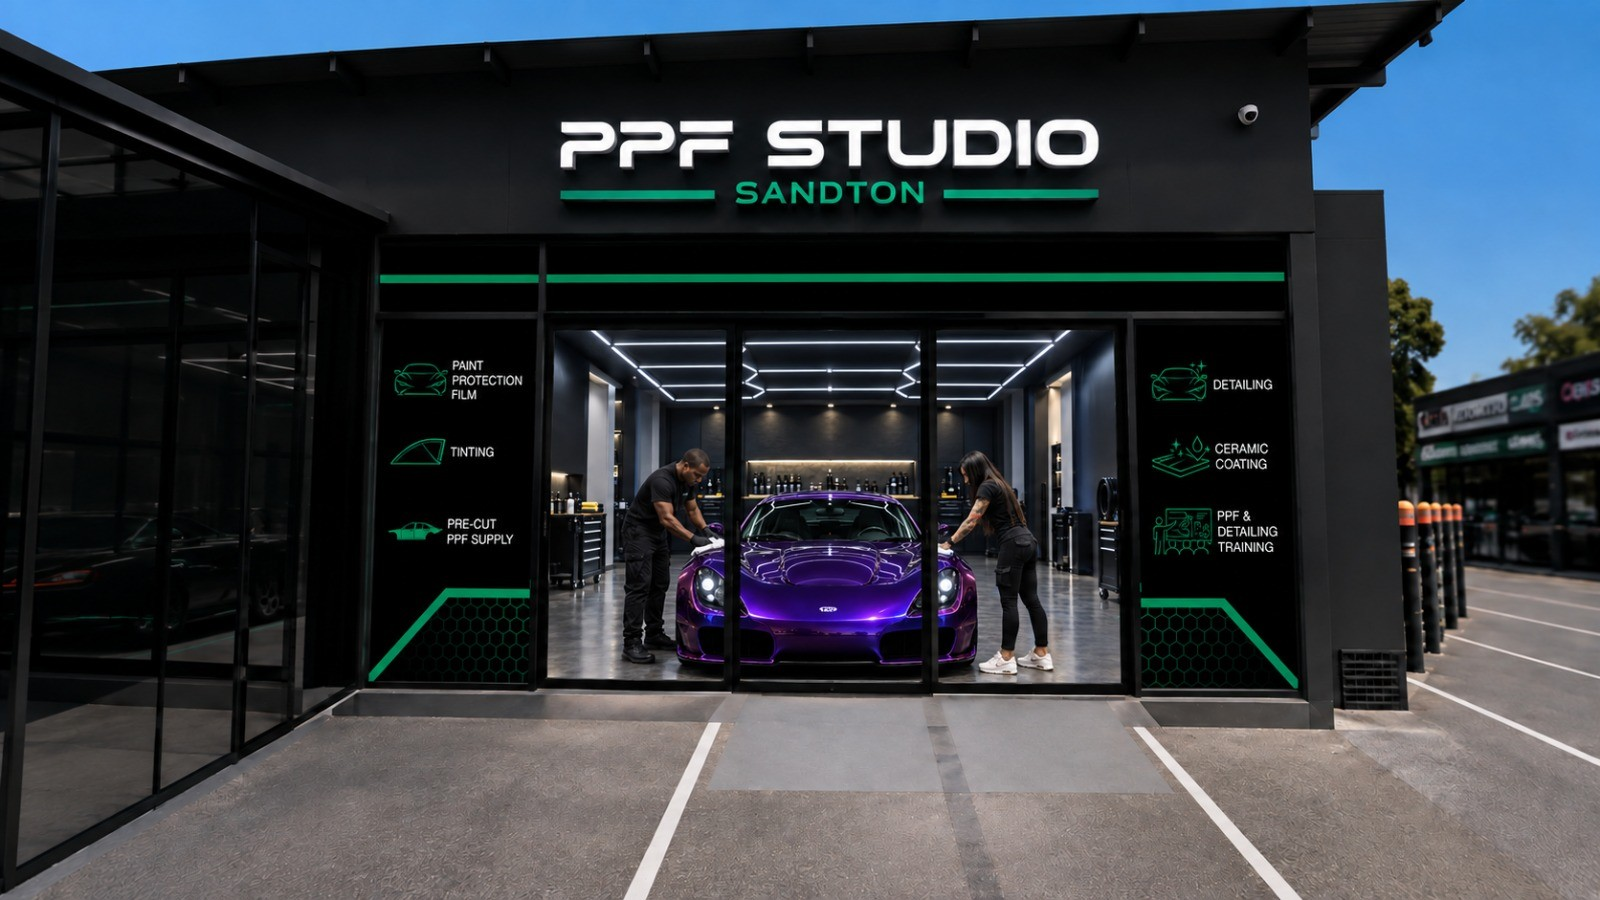
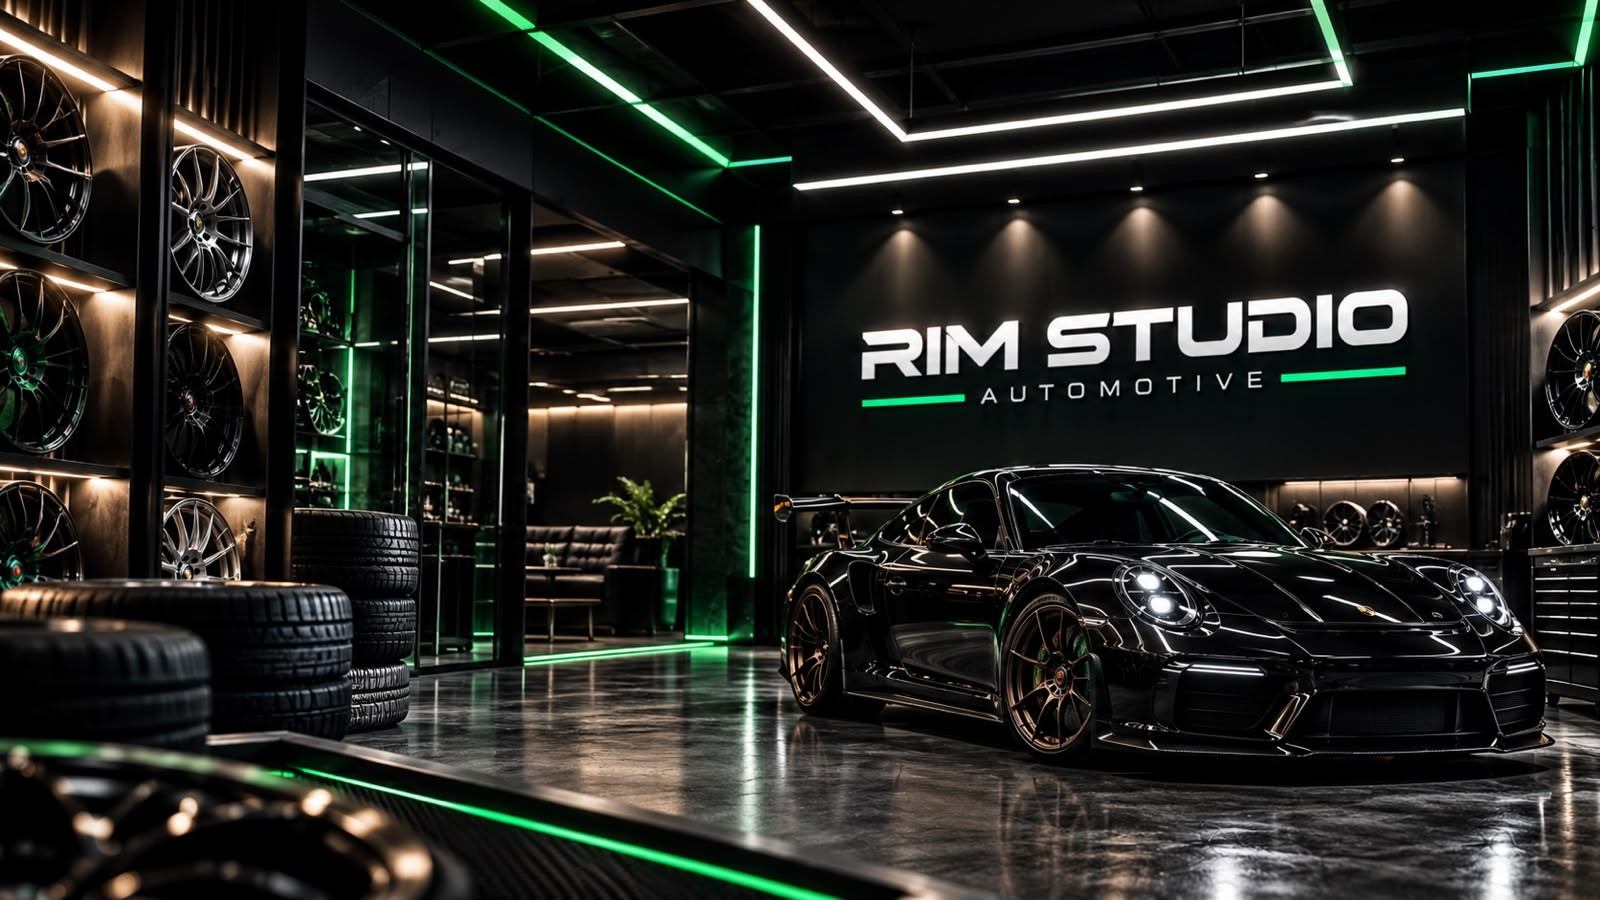
Add files via upload
commit

diff --git a/pages/mags.html b/pages/mags.html
@@ -5,13 +5,13 @@
   <meta name="viewport" content="width=device-width, initial-scale=1" />
   <title>Mag Wheels | Alloy Wheels Sandton | RIM STUDIO</title>
   <meta name="description" content="Browse premium alloy wheels and mag packages at RIM STUDIO Sandton. Land Rover, Mercedes, Audi, Porsche, bakkie and more. Correct fitment." />
-  <link rel="stylesheet" href="../css/style.css?v=neon15" />
+  <link rel="stylesheet" href="../css/style.css?v=neon16" />
   <link href="https://fonts.googleapis.com/css2?family=Inter:wght@400;500;600;700&display=swap" rel="stylesheet" />
 </head>
 <body>
   <header class="navbar">
     <div class="container navbar-inner">
-      <a href="../index.html" class="logo"><img src="../images/logo.png?v=neon15" alt="RIM STUDIO" height="36" /></a>
+      <a href="../index.html" class="logo"><img src="../images/logo.png?v=neon16" alt="RIM STUDIO" height="36" /></a>
       <nav class="nav-links">
         <a href="../index.html">HOME</a><a href="about.html">ABOUT US</a><a href="mags.html">MAGS</a><a href="tyres.html">TYRES</a><a href="detailing.html">DETAILING</a><a href="contact.html">CONTACT US</a>
       </nav>
@@ -46,7 +46,7 @@
   <footer class="footer">
     <div class="container">
       <div class="footer-grid">
-        <div><img src="../images/logo.png?v=neon15" alt="RIM STUDIO" class="footer-logo" /><p>Premium Wheels. Tyres. Detailing.</p></div>
+        <div><img src="../images/logo.png?v=neon16" alt="RIM STUDIO" class="footer-logo" /><p>Premium Wheels. Tyres. Detailing.</p></div>
         <div><h4>VISIT US</h4><address>4 7th Ave<br>Edenburg<br>Sandton, 2128<br>South Africa</address><p class="mt-4"><a href="mailto:info@rimstudio.co.za" style="color:var(--cyan)">info@rimstudio.co.za</a></p></div>
         <div><h4>EXPLORE</h4><ul><li><a href="mags.html">Mags</a></li><li><a href="tyres.html">Tyres</a></li><li><a href="detailing.html">Detailing</a></li><li><a href="about.html">About Us</a></li><li><a href="contact.html">Contact Us</a></li></ul></div>
         <div><h4>INFORMATION</h4><ul><li><a href="privacy.html">Privacy Policy</a></li><li><a href="terms.html">Terms & Conditions</a></li><li><a href="returns.html">Returns / Refund Policy</a></li></ul><a href="#" data-whatsapp class="btn btn-wa mt-6" style="display:inline-flex">WhatsApp Us</a></div>

diff --git a/pages/detailing.html b/pages/detailing.html
@@ -5,13 +5,13 @@
   <meta name="viewport" content="width=device-width, initial-scale=1" />
   <title>Automotive Detailing | RIM STUDIO Sandton</title>
   <meta name="description" content="Professional automotive detailing at RIM STUDIO Sandton. Premium vehicle care for a finish that deserves attention. Book your detail today." />
-  <link rel="stylesheet" href="../css/style.css?v=neon15" />
+  <link rel="stylesheet" href="../css/style.css?v=neon16" />
   <link href="https://fonts.googleapis.com/css2?family=Inter:wght@400;500;600;700&display=swap" rel="stylesheet" />
 </head>
 <body>
   <header class="navbar">
     <div class="container navbar-inner">
-      <a href="../index.html" class="logo"><img src="../images/logo.png?v=neon15" alt="RIM STUDIO" height="36" /></a>
+      <a href="../index.html" class="logo"><img src="../images/logo.png?v=neon16" alt="RIM STUDIO" height="36" /></a>
       <nav class="nav-links">
         <a href="../index.html">HOME</a><a href="about.html">ABOUT US</a><a href="mags.html">MAGS</a><a href="tyres.html">TYRES</a><a href="detailing.html">DETAILING</a><a href="contact.html">CONTACT US</a>
       </nav>
@@ -66,7 +66,7 @@
   <footer class="footer">
     <div class="container">
       <div class="footer-grid">
-        <div><img src="../images/logo.png?v=neon15" alt="RIM STUDIO" class="footer-logo" /><p>Premium Wheels. Tyres. Detailing.</p></div>
+        <div><img src="../images/logo.png?v=neon16" alt="RIM STUDIO" class="footer-logo" /><p>Premium Wheels. Tyres. Detailing.</p></div>
         <div><h4>VISIT US</h4><address>4 7th Ave<br>Edenburg<br>Sandton, 2128<br>South Africa</address><p class="mt-4"><a href="mailto:info@rimstudio.co.za" style="color:var(--cyan)">info@rimstudio.co.za</a></p></div>
         <div><h4>EXPLORE</h4><ul><li><a href="mags.html">Mags</a></li><li><a href="tyres.html">Tyres</a></li><li><a href="detailing.html">Detailing</a></li><li><a href="about.html">About Us</a></li><li><a href="contact.html">Contact Us</a></li></ul></div>
         <div><h4>INFORMATION</h4><ul><li><a href="privacy.html">Privacy Policy</a></li><li><a href="terms.html">Terms & Conditions</a></li><li><a href="returns.html">Returns / Refund Policy</a></li></ul><a href="#" data-whatsapp class="btn btn-wa mt-6" style="display:inline-flex">WhatsApp Us</a></div>

diff --git a/pages/contact.html b/pages/contact.html
@@ -5,13 +5,13 @@
   <meta name="viewport" content="width=device-width, initial-scale=1" />
   <title>Contact Us | RIM STUDIO Sandton</title>
   <meta name="description" content="Contact RIM STUDIO – 4 7th Ave, Edenburg, Sandton, 2128. Premium mag wheels, tyres and detailing. Email info@rimstudio.co.za or WhatsApp us." />
-  <link rel="stylesheet" href="../css/style.css?v=neon15" />
+  <link rel="stylesheet" href="../css/style.css?v=neon16" />
   <link href="https://fonts.googleapis.com/css2?family=Inter:wght@400;500;600;700&display=swap" rel="stylesheet" />
 </head>
 <body>
   <header class="navbar">
     <div class="container navbar-inner">
-      <a href="../index.html" class="logo"><img src="../images/logo.png?v=neon15" alt="RIM STUDIO" height="36" /></a>
+      <a href="../index.html" class="logo"><img src="../images/logo.png?v=neon16" alt="RIM STUDIO" height="36" /></a>
       <nav class="nav-links">
         <a href="../index.html">HOME</a><a href="about.html">ABOUT US</a><a href="mags.html">MAGS</a><a href="tyres.html">TYRES</a><a href="detailing.html">DETAILING</a><a href="contact.html">CONTACT US</a>
       </nav>
@@ -91,7 +91,7 @@
   <footer class="footer">
     <div class="container">
       <div class="footer-grid">
-        <div><img src="../images/logo.png?v=neon15" alt="RIM STUDIO" class="footer-logo" /><p>Premium Wheels. Tyres. Detailing.</p></div>
+        <div><img src="../images/logo.png?v=neon16" alt="RIM STUDIO" class="footer-logo" /><p>Premium Wheels. Tyres. Detailing.</p></div>
         <div><h4>VISIT US</h4><address>4 7th Ave<br>Edenburg<br>Sandton, 2128<br>South Africa</address><p class="mt-4"><a href="mailto:info@rimstudio.co.za" style="color:var(--cyan)">info@rimstudio.co.za</a></p></div>
         <div><h4>EXPLORE</h4><ul><li><a href="mags.html">Mags</a></li><li><a href="tyres.html">Tyres</a></li><li><a href="detailing.html">Detailing</a></li><li><a href="about.html">About Us</a></li><li><a href="contact.html">Contact Us</a></li></ul></div>
         <div><h4>INFORMATION</h4><ul><li><a href="privacy.html">Privacy Policy</a></li><li><a href="terms.html">Terms & Conditions</a></li><li><a href="returns.html">Returns / Refund Policy</a></li></ul><a href="#" data-whatsapp class="btn btn-wa mt-6" style="display:inline-flex">WhatsApp Us</a></div>

diff --git a/pages/tyres.html b/pages/tyres.html
@@ -5,13 +5,13 @@
   <meta name="viewport" content="width=device-width, initial-scale=1" />
   <title>Tyres | Performance & Safety Tyres Sandton | RIM STUDIO</title>
   <meta name="description" content="Quality tyres and wheel & tyre packages at RIM STUDIO Sandton. Performance, safety and value for Johannesburg drivers." />
-  <link rel="stylesheet" href="../css/style.css?v=neon15" />
+  <link rel="stylesheet" href="../css/style.css?v=neon16" />
   <link href="https://fonts.googleapis.com/css2?family=Inter:wght@400;500;600;700&display=swap" rel="stylesheet" />
 </head>
 <body>
   <header class="navbar">
     <div class="container navbar-inner">
-      <a href="../index.html" class="logo"><img src="../images/logo.png?v=neon15" alt="RIM STUDIO" height="36" /></a>
+      <a href="../index.html" class="logo"><img src="../images/logo.png?v=neon16" alt="RIM STUDIO" height="36" /></a>
       <nav class="nav-links">
         <a href="../index.html">HOME</a><a href="about.html">ABOUT US</a><a href="mags.html">MAGS</a><a href="tyres.html">TYRES</a><a href="detailing.html">DETAILING</a><a href="contact.html">CONTACT US</a>
       </nav>
@@ -40,7 +40,7 @@
   <footer class="footer">
     <div class="container">
       <div class="footer-grid">
-        <div><img src="../images/logo.png?v=neon15" alt="RIM STUDIO" class="footer-logo" /><p>Premium Wheels. Tyres. Detailing.</p></div>
+        <div><img src="../images/logo.png?v=neon16" alt="RIM STUDIO" class="footer-logo" /><p>Premium Wheels. Tyres. Detailing.</p></div>
         <div><h4>VISIT US</h4><address>4 7th Ave<br>Edenburg<br>Sandton, 2128<br>South Africa</address><p class="mt-4"><a href="mailto:info@rimstudio.co.za" style="color:var(--cyan)">info@rimstudio.co.za</a></p></div>
         <div><h4>EXPLORE</h4><ul><li><a href="mags.html">Mags</a></li><li><a href="tyres.html">Tyres</a></li><li><a href="detailing.html">Detailing</a></li><li><a href="about.html">About Us</a></li><li><a href="contact.html">Contact Us</a></li></ul></div>
         <div><h4>INFORMATION</h4><ul><li><a href="privacy.html">Privacy Policy</a></li><li><a href="terms.html">Terms & Conditions</a></li><li><a href="returns.html">Returns / Refund Policy</a></li></ul><a href="#" data-whatsapp class="btn btn-wa mt-6" style="display:inline-flex">WhatsApp Us</a></div>

diff --git a/index.html b/index.html
@@ -28,13 +28,13 @@
 <meta name="twitter:description" content="Premium alloy wheels, mags, tyres, wheel balancing, tyre fitment, PPF, vehicle wraps & detailing in Sandton & Randburg, Johannesburg. Free quotations. 4 7th Ave, Edenburg, Sandton, 2128." />
 <meta name="twitter:image" content="https://rimstudio.co.za/images/shop.jpg" />
 
-<link rel="icon" href="images/logo.png?v=neon15" type="image/png" />
-<link rel="apple-touch-icon" href="images/logo.png?v=neon15" />
+<link rel="icon" href="images/logo.png?v=neon16" type="image/png" />
+<link rel="apple-touch-icon" href="images/logo.png?v=neon16" />
 
 <link rel="preconnect" href="https://fonts.googleapis.com" />
 <link rel="preconnect" href="https://fonts.gstatic.com" crossorigin />
 <link href="https://fonts.googleapis.com/css2?family=Inter:wght@400;500;600;700&display=swap" rel="stylesheet" />
-<link rel="stylesheet" href="css/style.css?v=neon15" />
+<link rel="stylesheet" href="css/style.css?v=neon16" />
 <script type="application/ld+json">
 {
   "@context": "https://schema.org",
@@ -117,7 +117,7 @@
 <main>
 
   <!-- HERO -->
-  <section class="hero" style="background-image:url('images/shop.jpg');">
+  <section class="hero" style="background-image:url('images/shop.jpg?v=neon16');">
     <div class="hero-content">
       <span class="hero-eyebrow">Edenburg Showroom · Sandton</span>
       <h1 class="h1">Premium Wheels.<br/>Perfect Fit. Exceptional Finish.</h1>
@@ -140,7 +140,7 @@
         <p class="body-muted" style="margin-top:0.65rem;">Hilux, Jeep and Jetour packages — rims only or complete rim &amp; tyre sets. Limited stock. Free quotations.</p>
       </div>
       <div class="promo-frame">
-        <img src="images/promos/wheel-combos.jpg?v=neon15" alt="RIM STUDIO wheel and tyre combos — Toyota Hilux, Jeep Rubicon and Jetour T2 packages" loading="lazy" width="1536" height="1024" />
+        <img src="images/promos/wheel-combos.jpg?v=neon16" alt="RIM STUDIO wheel and tyre combos — Toyota Hilux, Jeep Rubicon and Jetour T2 packages" loading="lazy" width="1536" height="1024" />
       </div>
       <div class="promo-actions">
         <a href="mags.html" class="btn btn-primary">Shop mags</a>

diff --git a/pages/about.html b/pages/about.html
@@ -5,13 +5,13 @@
   <meta name="viewport" content="width=device-width, initial-scale=1" />
   <title>About Us | RIM STUDIO Sandton</title>
   <meta name="description" content="Discover RIM STUDIO – Sandton’s premium destination for alloy wheels, tyres and automotive detailing. Passion for correct fitment and exceptional finish." />
-  <link rel="stylesheet" href="../css/style.css?v=neon15" />
+  <link rel="stylesheet" href="../css/style.css?v=neon16" />
   <link href="https://fonts.googleapis.com/css2?family=Inter:wght@400;500;600;700&display=swap" rel="stylesheet" />
 </head>
 <body>
   <header class="navbar">
     <div class="container navbar-inner">
-      <a href="../index.html" class="logo"><img src="../images/logo.png?v=neon15" alt="RIM STUDIO" height="36" /></a>
+      <a href="../index.html" class="logo"><img src="../images/logo.png?v=neon16" alt="RIM STUDIO" height="36" /></a>
       <nav class="nav-links">
         <a href="../index.html">HOME</a>
         <a href="about.html">ABOUT US</a>
@@ -73,7 +73,7 @@
   <footer class="footer">
     <div class="container">
       <div class="footer-grid">
-        <div><img src="../images/logo.png?v=neon15" alt="RIM STUDIO" class="footer-logo" /><p>Premium Wheels. Tyres. Detailing.</p></div>
+        <div><img src="../images/logo.png?v=neon16" alt="RIM STUDIO" class="footer-logo" /><p>Premium Wheels. Tyres. Detailing.</p></div>
         <div><h4>VISIT US</h4><address>4 7th Ave<br>Edenburg<br>Sandton, 2128<br>South Africa</address><p class="mt-4"><a href="mailto:info@rimstudio.co.za" style="color:var(--cyan)">info@rimstudio.co.za</a></p></div>
         <div><h4>EXPLORE</h4><ul><li><a href="mags.html">Mags</a></li><li><a href="tyres.html">Tyres</a></li><li><a href="detailing.html">Detailing</a></li><li><a href="about.html">About Us</a></li><li><a href="contact.html">Contact Us</a></li></ul></div>
         <div><h4>INFORMATION</h4><ul><li><a href="privacy.html">Privacy Policy</a></li><li><a href="terms.html">Terms & Conditions</a></li><li><a href="returns.html">Returns / Refund Policy</a></li></ul><a href="#" data-whatsapp class="btn btn-wa mt-6" style="display:inline-flex">WhatsApp Us</a></div>

diff --git a/js/components.js b/js/components.js
@@ -40,7 +40,7 @@ function headerHTML(activePage) {
     '</div></div>' +
     '<header class="site-header">' +
     '<div class="wrap">' +
-    '<a href="index.html" class="logo"><img src="images/logo.png?v=neon15" alt="RIM STUDIO Sandton – alloy wheels, mags and tyres Johannesburg" height="36" /></a>' +
+    '<a href="index.html" class="logo"><img src="images/logo.png?v=neon16" alt="RIM STUDIO Sandton – alloy wheels, mags and tyres Johannesburg" height="36" /></a>' +
     '<nav class="nav-desktop">' +
     '<a href="index.html" class="' + navClass("home") + '">HOME</a>' +
     '<a href="about.html" class="' + navClass("about") + '">ABOUT US</a>' +
@@ -82,7 +82,7 @@ function footerHTML() {
     '<div class="wrap">' +
     '<div class="footer-grid">' +
     "<div>" +
-    '<img src="images/logo.png?v=neon15" alt="RIM STUDIO" class="footer-logo" />' +
+    '<img src="images/logo.png?v=neon16" alt="RIM STUDIO" class="footer-logo" />' +
     "<p>Alloy wheels, mags, tyres, fitment, balancing, PPF & wraps in Sandton.<br/>Sandton’s destination for correct fitment and exceptional finish.</p>" +
     "</div>" +
     "<div>" +

diff --git a/tyres.html b/tyres.html
@@ -28,13 +28,13 @@
 <meta name="twitter:description" content="Performance tyres, racing tyres and all-terrain fitment in Sandton & Randburg. Wheel balancing and tyre fitment specialists. Free quotation. Serving Johannesburg & surrounds." />
 <meta name="twitter:image" content="https://rimstudio.co.za/images/shop.jpg" />
 
-<link rel="icon" href="images/logo.png?v=neon15" type="image/png" />
-<link rel="apple-touch-icon" href="images/logo.png?v=neon15" />
+<link rel="icon" href="images/logo.png?v=neon16" type="image/png" />
+<link rel="apple-touch-icon" href="images/logo.png?v=neon16" />
 
 <link rel="preconnect" href="https://fonts.googleapis.com" />
 <link rel="preconnect" href="https://fonts.gstatic.com" crossorigin />
 <link href="https://fonts.googleapis.com/css2?family=Inter:wght@400;500;600;700&display=swap" rel="stylesheet" />
-<link rel="stylesheet" href="css/style.css?v=neon15" />
+<link rel="stylesheet" href="css/style.css?v=neon16" />
 <script type="application/ld+json">
 {
   "@context": "https://schema.org",

diff --git a/detailing.html b/detailing.html
@@ -28,13 +28,13 @@
 <meta name="twitter:description" content="Professional automotive detailing, paint protection film (PPF) and vehicle wraps in Sandton & Randburg. Premium finish for luxury and performance vehicles. Free quotations." />
 <meta name="twitter:image" content="https://rimstudio.co.za/images/shop.jpg" />
 
-<link rel="icon" href="images/logo.png?v=neon15" type="image/png" />
-<link rel="apple-touch-icon" href="images/logo.png?v=neon15" />
+<link rel="icon" href="images/logo.png?v=neon16" type="image/png" />
+<link rel="apple-touch-icon" href="images/logo.png?v=neon16" />
 
 <link rel="preconnect" href="https://fonts.googleapis.com" />
 <link rel="preconnect" href="https://fonts.gstatic.com" crossorigin />
 <link href="https://fonts.googleapis.com/css2?family=Inter:wght@400;500;600;700&display=swap" rel="stylesheet" />
-<link rel="stylesheet" href="css/style.css?v=neon15" />
+<link rel="stylesheet" href="css/style.css?v=neon16" />
 <script type="application/ld+json">
 {
   "@context": "https://schema.org",

diff --git a/contact.html b/contact.html
@@ -28,13 +28,13 @@
 <meta name="twitter:description" content="Visit RIM STUDIO at 4 7th Ave, Edenburg, Sandton, 2128, South Africa. Free quotations on wheels, mags, tyres, PPF, wraps, balancing and fitment. WhatsApp or email us." />
 <meta name="twitter:image" content="https://rimstudio.co.za/images/shop.jpg" />
 
-<link rel="icon" href="images/logo.png?v=neon15" type="image/png" />
-<link rel="apple-touch-icon" href="images/logo.png?v=neon15" />
+<link rel="icon" href="images/logo.png?v=neon16" type="image/png" />
+<link rel="apple-touch-icon" href="images/logo.png?v=neon16" />
 
 <link rel="preconnect" href="https://fonts.googleapis.com" />
 <link rel="preconnect" href="https://fonts.gstatic.com" crossorigin />
 <link href="https://fonts.googleapis.com/css2?family=Inter:wght@400;500;600;700&display=swap" rel="stylesheet" />
-<link rel="stylesheet" href="css/style.css?v=neon15" />
+<link rel="stylesheet" href="css/style.css?v=neon16" />
 <script type="application/ld+json">
 {
   "@context": "https://schema.org",

diff --git a/mags.html b/mags.html
@@ -28,13 +28,13 @@
 <meta name="twitter:description" content="Shop premium forged and OEM alloy wheels for Range Rover, Mercedes G63, Audi, Porsche & bakkies. Fitment available in Sandton & Randburg. Free quotation on all mags." />
 <meta name="twitter:image" content="https://rimstudio.co.za/images/shop.jpg" />
 
-<link rel="icon" href="images/logo.png?v=neon15" type="image/png" />
-<link rel="apple-touch-icon" href="images/logo.png?v=neon15" />
+<link rel="icon" href="images/logo.png?v=neon16" type="image/png" />
+<link rel="apple-touch-icon" href="images/logo.png?v=neon16" />
 
 <link rel="preconnect" href="https://fonts.googleapis.com" />
 <link rel="preconnect" href="https://fonts.gstatic.com" crossorigin />
 <link href="https://fonts.googleapis.com/css2?family=Inter:wght@400;500;600;700&display=swap" rel="stylesheet" />
-<link rel="stylesheet" href="css/style.css?v=neon15" />
+<link rel="stylesheet" href="css/style.css?v=neon16" />
 <script type="application/ld+json">
 {
   "@context": "https://schema.org",

diff --git a/about.html b/about.html
@@ -28,13 +28,13 @@
 <meta name="twitter:description" content="RIM STUDIO is Sandton's premium wheel, tyre and detailing showroom in Edenburg, Sandton. Specialists in fitment, balancing and free quotations across Johannesburg." />
 <meta name="twitter:image" content="https://rimstudio.co.za/images/shop.jpg" />
 
-<link rel="icon" href="images/logo.png?v=neon15" type="image/png" />
-<link rel="apple-touch-icon" href="images/logo.png?v=neon15" />
+<link rel="icon" href="images/logo.png?v=neon16" type="image/png" />
+<link rel="apple-touch-icon" href="images/logo.png?v=neon16" />
 
 <link rel="preconnect" href="https://fonts.googleapis.com" />
 <link rel="preconnect" href="https://fonts.gstatic.com" crossorigin />
 <link href="https://fonts.googleapis.com/css2?family=Inter:wght@400;500;600;700&display=swap" rel="stylesheet" />
-<link rel="stylesheet" href="css/style.css?v=neon15" />
+<link rel="stylesheet" href="css/style.css?v=neon16" />
 <script type="application/ld+json">
 {
   "@context": "https://schema.org",
